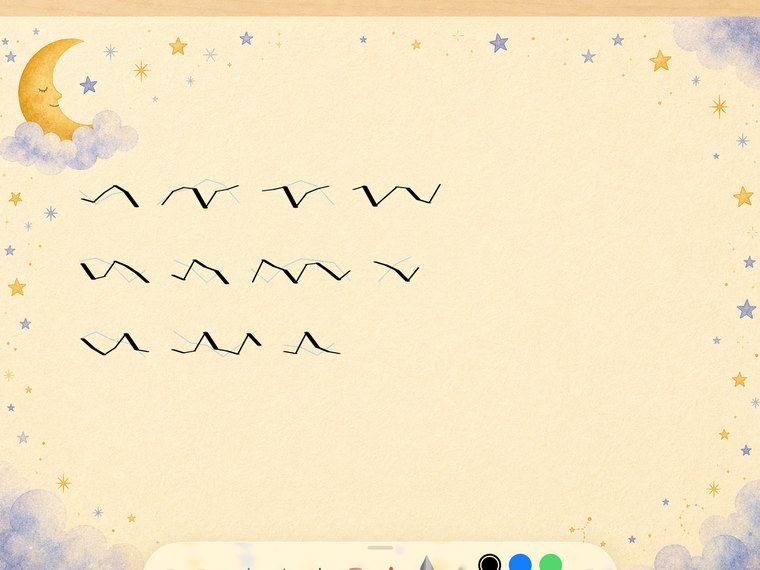
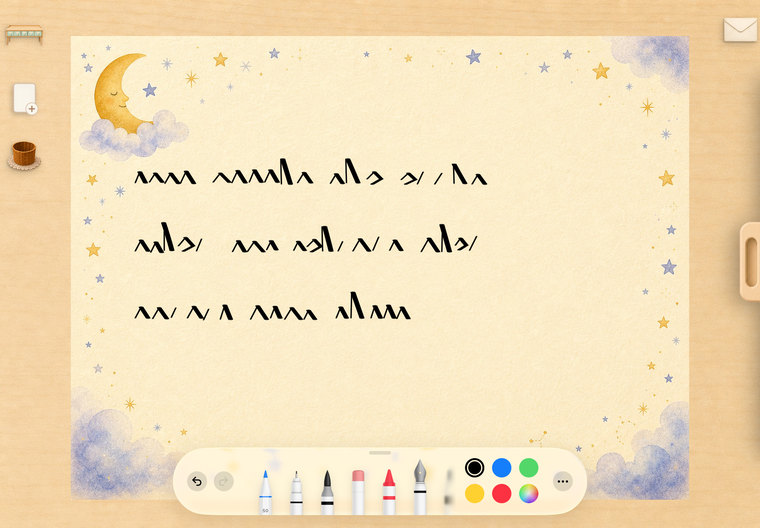
Show whole screens in the step row, not crops
Cropping in read as accidental framing — the panels looked like details of
something rather than the thing itself, and the send step lost the point of the
shot by cutting the envelope.

All three are now full 11-inch captures (2360x1640) so they share one aspect and
the captions sit on a single line. Mixing devices was the reason they could not
be full-bleed before: the 13-inch is 4:3 and the 11-inch is 1.44, so one panel
would have come up short and staggered the row.

The writing panel is also re-shot. The previous strokes were a uniform sine at
fixed amplitude and read as repeated W shapes; these vary height, width and
baseline per letterform and include ascenders and word gaps, so they pass as a
child's hand at 285px.

diff --git a/index.html b/index.html
@@ -42,25 +42,29 @@
            width="1800" height="1389" />
     </figure>
 
-    <!-- Three moments, not three screenshots. The hero already establishes the
-         device, so these carry no bezel — a second, third and fourth iPad frame
-         would repeat information the reader has and make the frame the repeated
-         element rather than the content. They are CROPS for the same reason the
-         app is landscape: three whole screens side by side would be ~300px each
-         and illegible, while crops tile at any width and suit an app whose charm
-         is in the detail. Ordered as a ritual (paper, writing, stamp) so the row
-         reads as a sequence rather than a gallery. -->
+    <!-- Three moments, ordered as a ritual (paper, writing, stamp) so the row
+         reads as a sequence rather than a gallery.
+
+         No bezel: the hero already establishes the device, and a second, third
+         and fourth frame would repeat that while spending ~15% of each image on
+         chrome the reader no longer needs.
+
+         WHOLE screens, not crops. Cropping in read as accidental framing — the
+         panels looked like details of something rather than the thing itself.
+         All three are full 11-inch captures (2360x1640), so they share an
+         aspect and the captions sit on one line; mixing the 13-inch (4:3) in
+         here would leave one panel short and stagger the captions. -->
     <section class="steps">
       <figure>
-        <img src="assets/step-paper.jpg" alt="A grid of letter papers to choose from — plain cream, a moonlit sky, a rainbow wash and a green-blue wash" width="760" height="570" />
+        <img src="assets/step-paper.jpg" alt="A grid of letter papers to choose from — plain cream, a moonlit sky, a rainbow wash and a green-blue wash" width="760" height="528" />
         <figcaption>Choose your paper.</figcaption>
       </figure>
       <figure>
-        <img src="assets/step-writing.jpg" alt="A letter being handwritten on moonlit paper with a sleepy moon in the corner" width="760" height="570" />
+        <img src="assets/step-writing.jpg" alt="A letter being handwritten on moonlit paper with a sleepy moon in the corner" width="760" height="528" />
         <figcaption>Write it by hand.</figcaption>
       </figure>
       <figure>
-        <img src="assets/step-stamp.jpg" alt="An airmail envelope addressed to Grandma, above a tray of stamps to pick from" width="760" height="570" />
+        <img src="assets/step-stamp.jpg" alt="An airmail envelope addressed to Grandma, above a tray of stamps to pick from" width="760" height="528" />
         <figcaption>Stamp it and send.</figcaption>
       </figure>
     </section>
